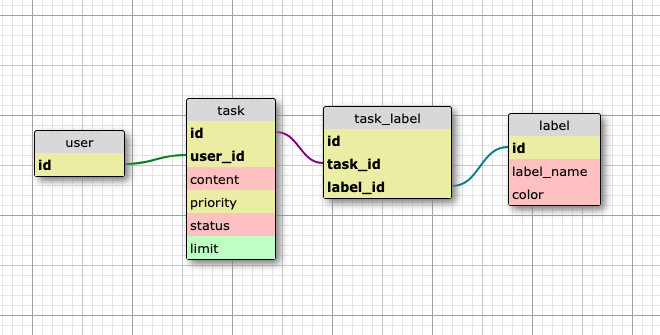
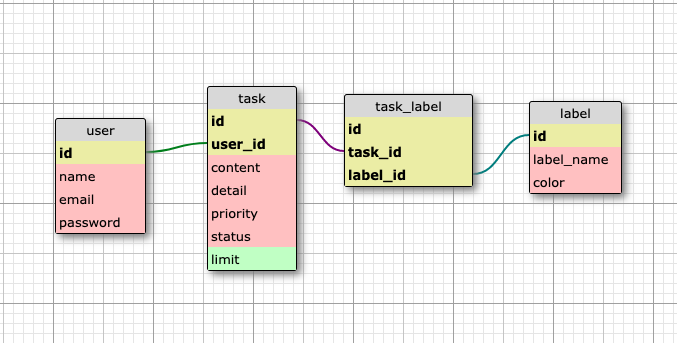
README.md,ER図の修正

diff --git a/spec/system/task_spec.rb b/spec/system/task_spec.rb
@@ -33,25 +33,31 @@ RSpec.describe 'Tasks', type: :system do
         expect(page).to have_content 'タスクデータが保存されるかテストする'
         # テストコードで作成したデータのcontentの表示をクリックして詳細ウィンドウを表示する
         click_link 'タスクデータが保存されるかテストする'
-        # 詳細ウィンドウにテストコードで作成したデータがhave_contentされているかを確認する
-        expect(page).to have_content 'タスクデータが保存されるかテストする'
-        expect(page).to have_content 'System　Specを使って必要項目を入力してcreateボタンを押した場合正しく保存されるかテストしている'
+        # 詳細ウィンドウ内の検証
+        within('.modal') do
+          # 詳細ウィンドウにテストコードで作成したデータがhave_contentされているかを確認する
+          expect(page).to have_content 'タスクデータが保存されるかテストする'
+          expect(page).to have_content 'System　Specを使って必要項目を入力してcreateボタンを押した場合正しく保存されるかテストしている'
+        end
       end
     end
   end
   describe 'タスク詳細画面' do
-     context '任意のタスク詳細画面に遷移した場合' do
-       it '該当タスクの内容が表示されたページに遷移する' do
-         # テストに使用するタスクデータを作成
-         task = FactoryBot.create(:task, content: 'test_show_content', detail: 'test_show_detail')
-         # タスク一覧画面に遷移
-         visit tasks_path
-         # 作成したタスクデータのcontentの表示をクリック
-         # 該当タスクの詳細ウィンドウが表示される
-         click_link 'test_show_content'
-         # 詳細ウィンドウに該当タスクのcontent,detailがhave_contentされているかを確認する
-         expect(page).to have_content 'test_show_content'
-         expect(page).to have_content 'test_show_detail'
+    context '任意のタスク詳細画面に遷移した場合' do
+      it '該当タスクの内容が表示されたページに遷移する' do
+        # テストに使用するタスクデータを作成
+        task = FactoryBot.create(:task, content: 'test_show_content', detail: 'test_show_detail')
+        # タスク一覧画面に遷移
+        visit tasks_path
+        # 作成したタスクデータのcontentの表示をクリック
+        # 該当タスクの詳細ウィンドウが表示される
+        click_link 'test_show_content'
+        # 詳細ウィンドウ内の検証
+        within('.modal') do
+          # 詳細ウィンドウに該当タスクのcontent,detailがhave_contentされているかを確認する
+          expect(page).to have_content 'test_show_content'
+          expect(page).to have_content 'test_show_detail'
+        end
        end
      end
   end

diff --git a/README.md b/README.md
@@ -3,6 +3,9 @@
 ## usersテーブル
 -|Column|Type|Options|
 -|------|----|-------|
+-|name|string|limit: 20|
+-|email|string|unique: true, limit: 255|
+-|password|string|limit: 128|
 ### Association
 has_many :tasks, dependent: :destroy
 
@@ -11,7 +14,7 @@ has_many :tasks, dependent: :destroy
 -|------|----|-------|
 -|user_id|references|null: false, foreign_key: true|
 -|content|string|null: false, limit: 50|
--|comment|text|limit: 255|
+-|detail|text|limit: 255|
 -|priority|enum|null: false, default: "通常"|
 -|status|enum|null: false, default: "未着手"|
 -|limit|timestamp|
